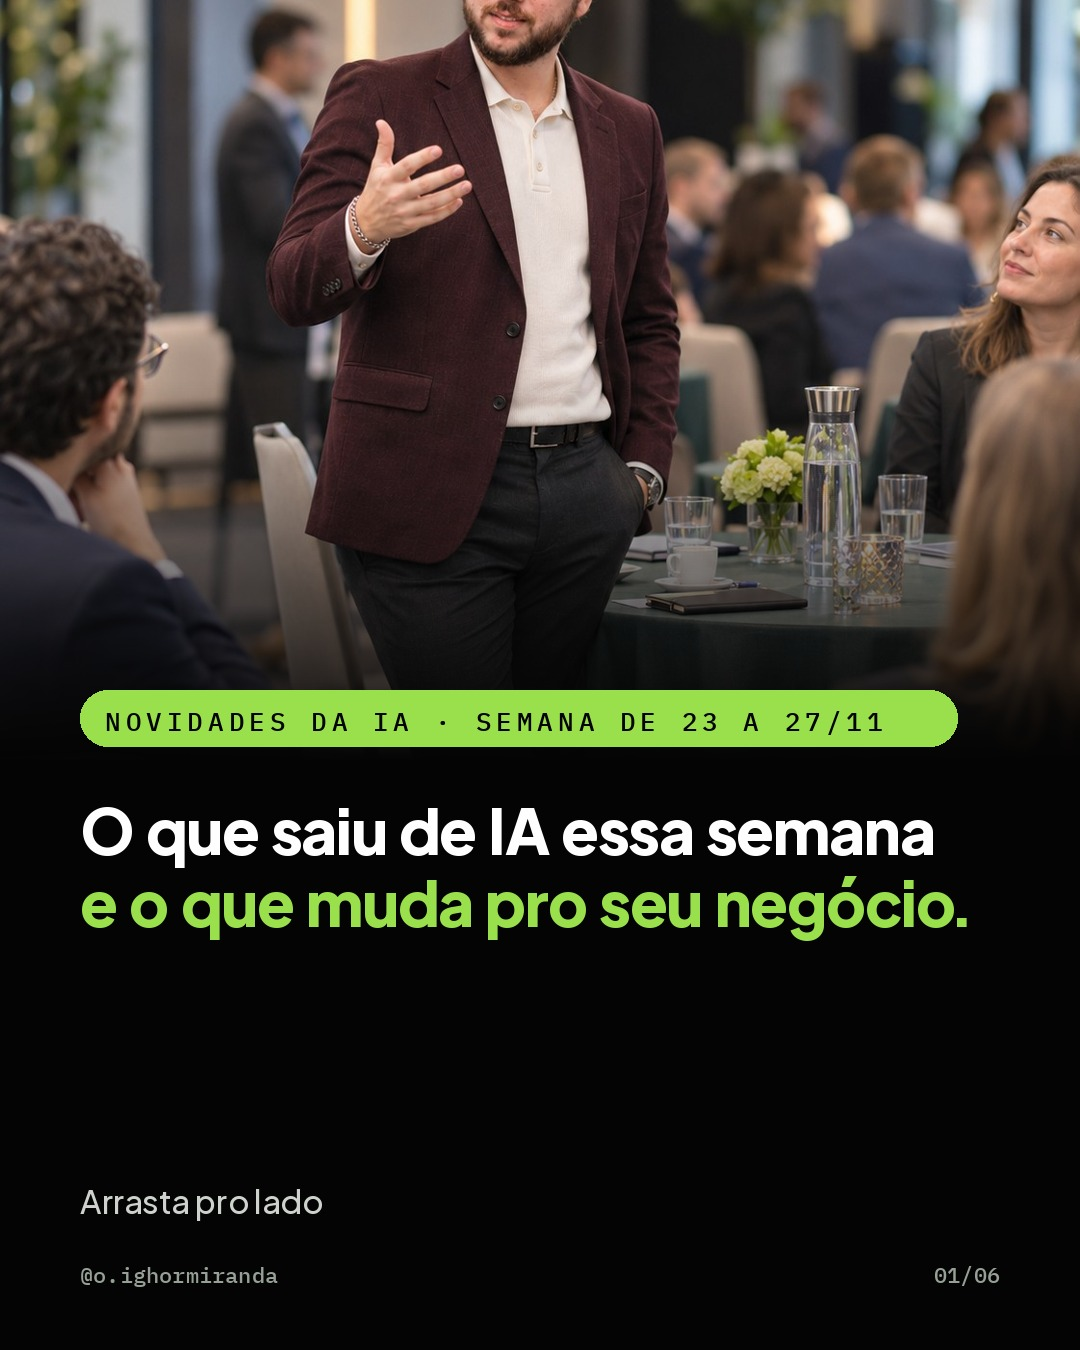
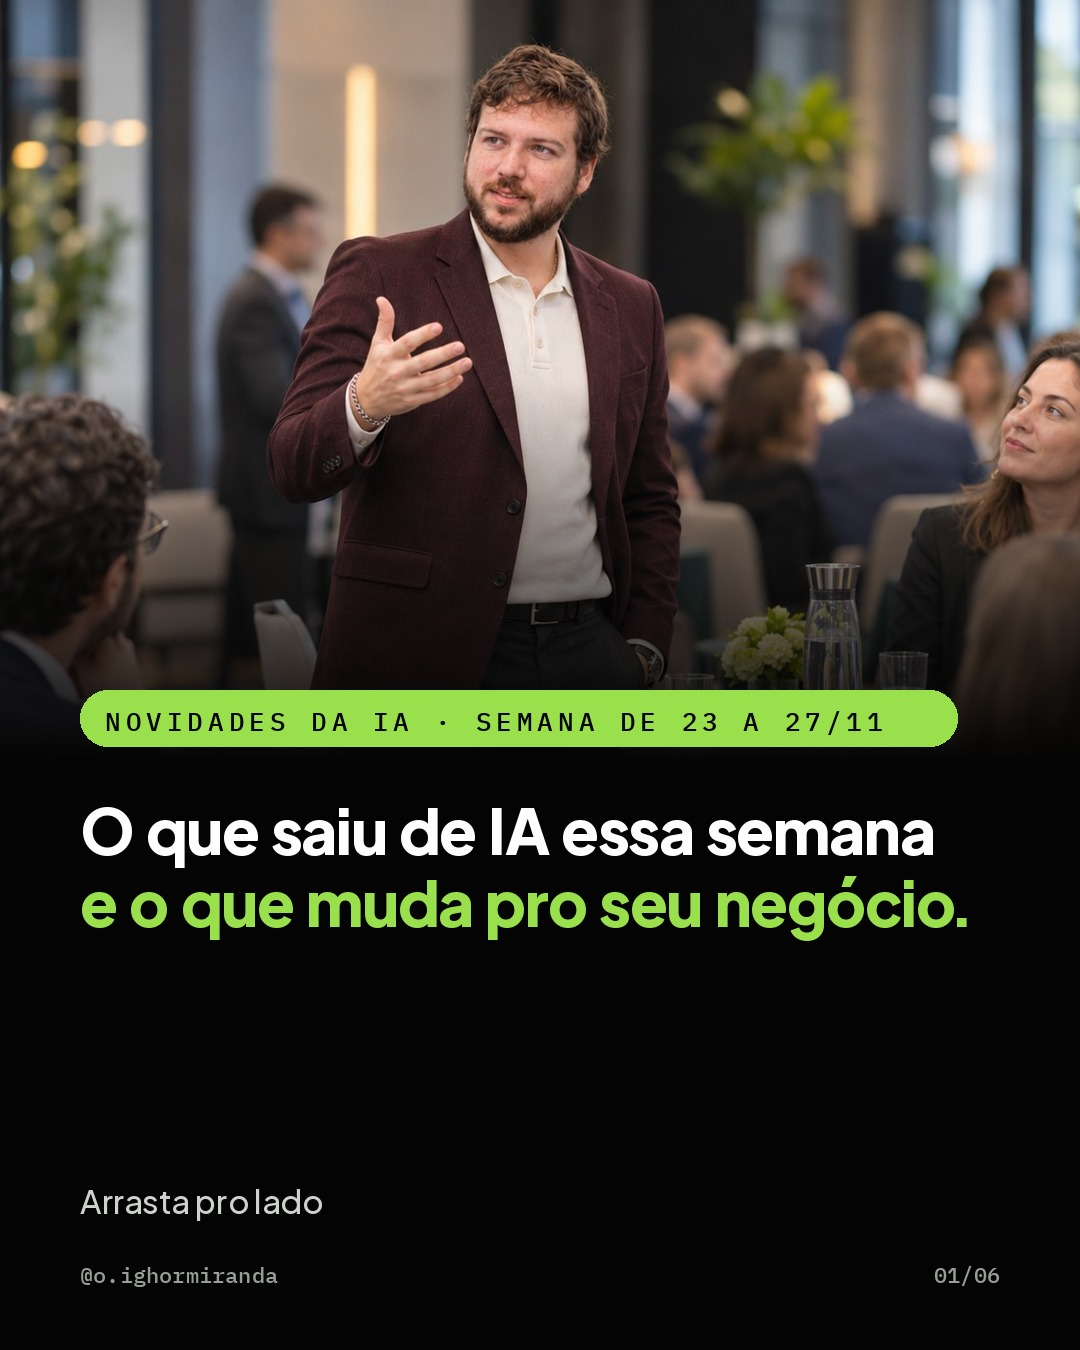
Novidades: capa acha o rosto e não corta a cabeça
Claude-Session: https://claude.ai/code/session_01487yXP275ARuLoBUohxHZV

diff --git a/ferramentas/novidades.py b/ferramentas/novidades.py
@@ -47,9 +47,31 @@ def foot(d, n, tot):
     d.text((W - M - d.textlength(p, font=f), 1260), p, font=f, fill=(150, 160, 150))
 
 
+def fit_rosto(im, size):
+    """Recorta para o tamanho pedido sem cortar a cabeça: acha o rosto (dlib) e deixa folga acima dele."""
+    tw, th = size
+    sc = max(tw / im.width, th / im.height)
+    big = im.resize((int(im.width * sc) + 1, int(im.height * sc) + 1))
+    top = int((big.height - th) * 0.3)
+    try:
+        import dlib, numpy as np
+        g = np.array(big.convert('L').resize((big.width // 4, big.height // 4)))
+        ds = dlib.get_frontal_face_detector()(g, 1)
+        if ds:
+            d = max(ds, key=lambda r: r.area())
+            face_top = d.top() * 4; face_h = d.height() * 4
+            # topo da cabeça fica ~0.6 da altura do rosto acima da testa; deixa mais 8% de folga
+            top = max(0, min(big.height - th, int(face_top - 0.6 * face_h - 0.08 * th)))
+    except Exception:
+        top = 0
+    left = (big.width - tw) // 2
+    return big.crop((left, top, left + tw, top + th))
+
+
 def capa_slide(ed, tot, out):
     im = Image.new('RGB', (W, H), PR)
-    ph = ImageOps.fit(ImageOps.exif_transpose(Image.open(gen.FOT + ed['foto'])).convert('RGB'), (W, 760), centering=(0.5, 0.3))
+    src = ImageOps.exif_transpose(Image.open(gen.FOT + ed['foto'])).convert('RGB')
+    ph = fit_rosto(src, (W, 760))
     im.paste(ph, (0, 0))
     g = Image.new('L', (1, 760))
     for y in range(760): g.putpixel((0, y), int(255 * max(0, (y - 380) / 380)))
